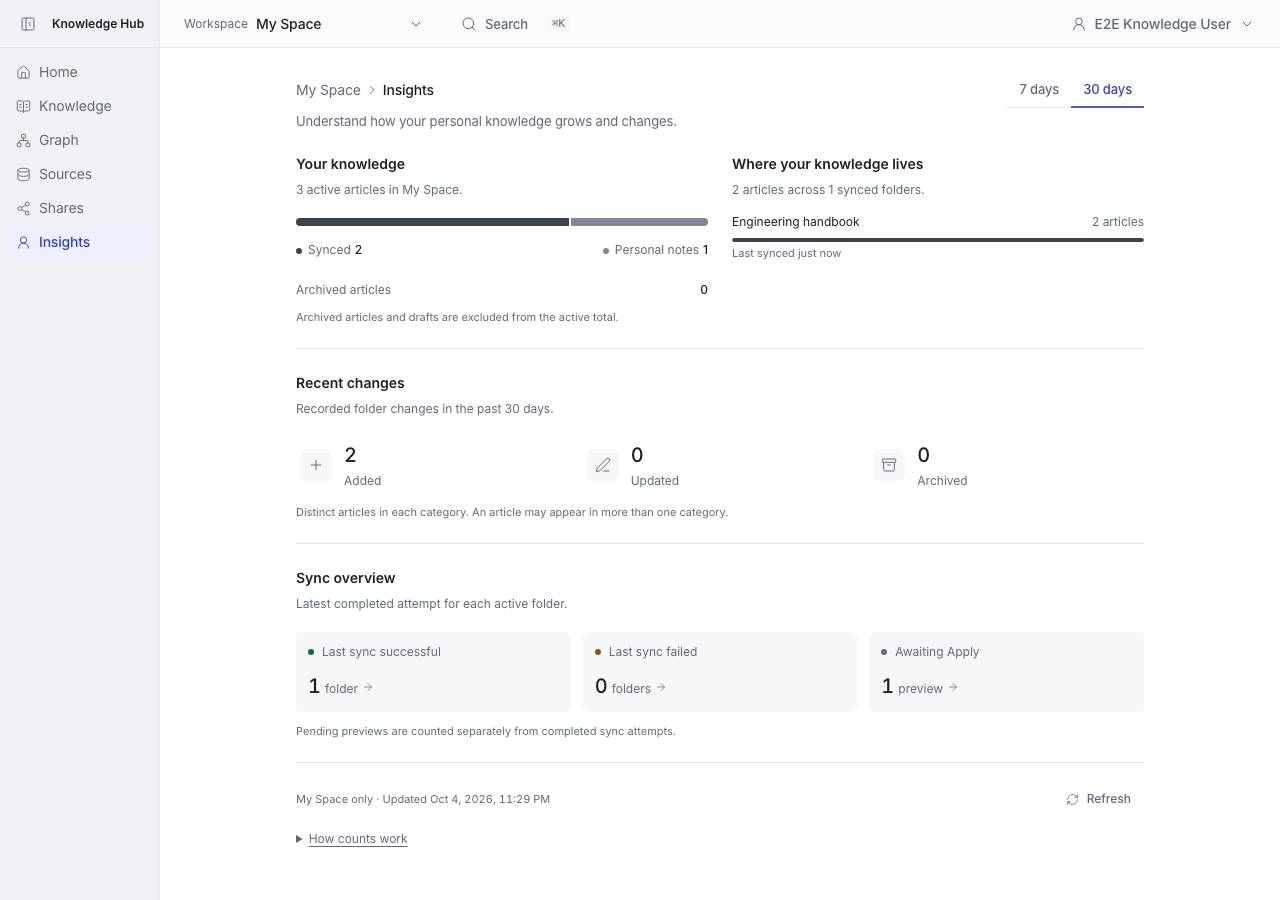
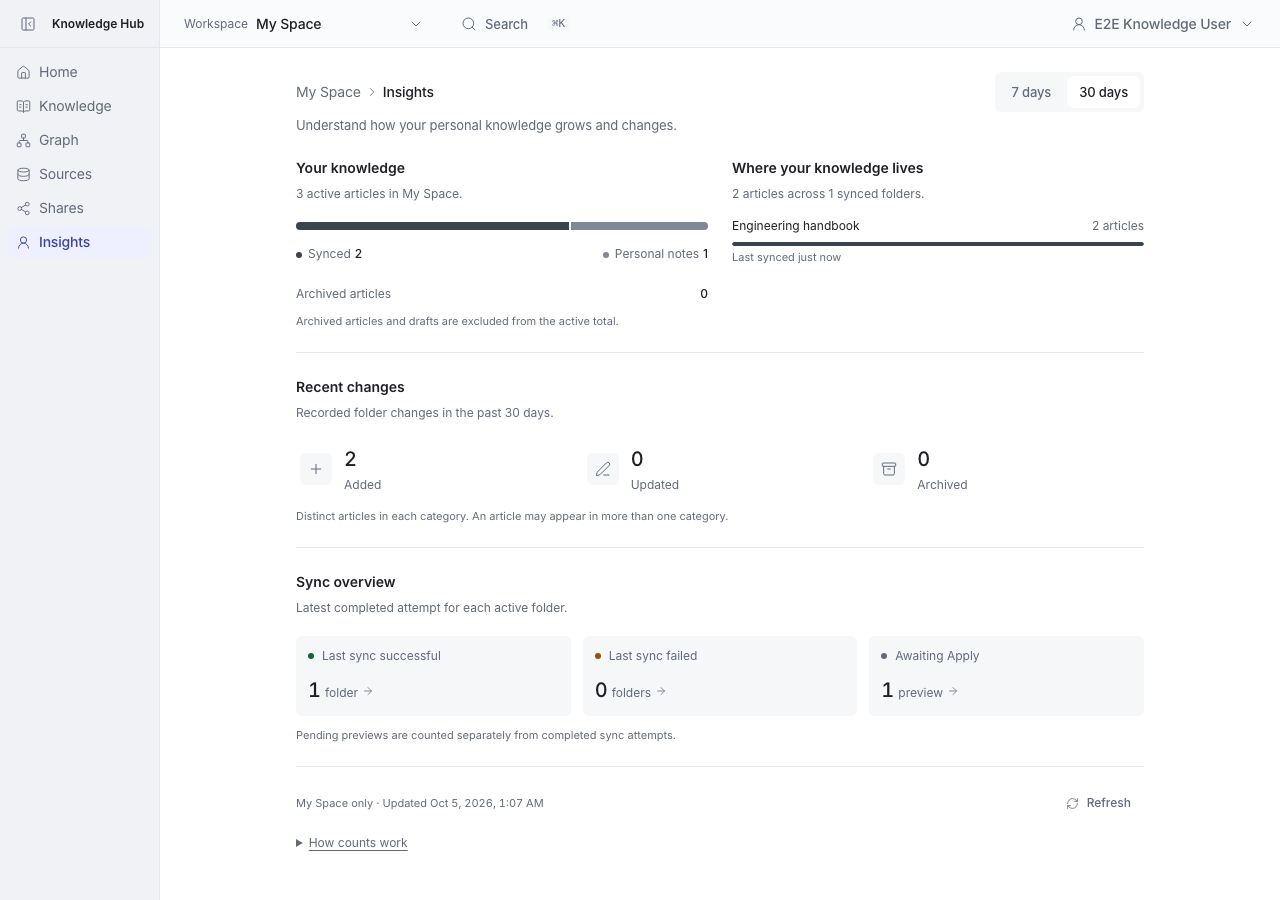
fix: use segmented period control in Insights

diff --git a/src/components/personal/personal-profile-view.tsx b/src/components/personal/personal-profile-view.tsx
@@ -4,13 +4,12 @@ import type {PersonalProfile} from "@/modules/personal/domain/personal-profile";
 import {Timestamp} from "@/components/ui/timestamp";
 import {ProfileRefresh} from "./profile-refresh";
 import {PageHeader} from "@/components/shell/page-header";
-import {tabClasses} from "@/components/ui/tab";
 import styles from "./profile.module.css";
 export function PersonalProfileView({profile:p}:{profile:PersonalProfile}){
  const base=`/w/${p.workspaceId}`,profile=`${base}/profile`,articles=(filter:string)=>`${profile}/articles?filter=${filter}&days=${p.days}`;
  const otherCount=p.counts.folders-p.sources.length,otherArticles=p.counts.synced-p.sources.reduce((sum,s)=>sum+s.articles,0),max=Math.max(1,...p.sources.map(s=>s.articles),otherArticles);
  return <main className={`kh-page py-6 ${styles.profile}`}>
-  <PageHeader location="My Space" locationHref={`${base}/home`} title="Insights" description="Understand how your personal knowledge grows and changes." actions={<nav className="flex items-center border-b border-kh-border" aria-label="Statistics period">{[7,30].map(days=><Link key={days} href={`${profile}?days=${days}`} scroll={false} aria-current={p.days===days?"page":undefined} className={tabClasses(p.days===days)}>{days} days</Link>)}</nav>}/>
+  <PageHeader location="My Space" locationHref={`${base}/home`} title="Insights" description="Understand how your personal knowledge grows and changes." actions={<nav className="flex items-center gap-1 rounded-md bg-kh-bg-subtle p-1" aria-label="Statistics period">{[7,30].map(days=><Link key={days} href={`${profile}?days=${days}`} scroll={false} aria-current={p.days===days?"page":undefined} className={`kh-focus-ring inline-flex h-8 items-center rounded-md px-3 text-body-sm font-medium ${p.days===days ? "bg-kh-bg text-kh-text" : "text-kh-text-muted hover:text-kh-text"}`}>{days} days</Link>)}</nav>}/>
 
   {p.counts.articles===0?<p className={styles.empty}>Build your personal knowledge space.<br/><Link className={`${styles.import} kh-focus-ring`} href={`${base}/sources/import`}>Import your first folder</Link></p>:null}
   <div className={styles.pair}><section aria-labelledby="knowledge-composition"><h2 className={styles.sectiontitle} id="knowledge-composition">Your knowledge</h2><p className={styles.caption}>{p.counts.articles.toLocaleString("en-US")} active articles in My Space.</p><div className={styles.composition} role="img" aria-label={`${p.counts.synced} synced articles and ${p.counts.notes} personal notes`}><div className={styles.synced} style={{width:`${p.counts.articles?p.counts.synced/p.counts.articles*100:0}%`}}/><div className={styles.notes} style={{width:`${p.counts.articles?p.counts.notes/p.counts.articles*100:0}%`}}/></div><div className={styles.legend}><Link className="kh-focus-ring rounded" href={articles("synced")}><i className={styles.dot}/>Synced<strong>{p.counts.synced}</strong></Link><Link className="kh-focus-ring rounded" href={articles("notes")}><i className={`${styles.dot} ${styles.dotSoft}`}/>Personal notes<strong>{p.counts.notes}</strong></Link></div><Link className={`${styles.archive} kh-focus-ring rounded`} href={articles("archived")}><span>Archived articles</span><strong>{p.counts.archived}</strong></Link><p className={styles.small}>Archived articles and drafts are excluded from the active total.</p></section>

diff --git a/tests/e2e/personal-profile.spec.ts b/tests/e2e/personal-profile.spec.ts
@@ -38,7 +38,7 @@ test("personal profile counts, detail links, themes and mobile layout",async({pa
  await page.screenshot({path:path.join(output,"desktop-light.png"),fullPage:true,animations:"disabled"});
  await page.getByRole("button",{name:/^Account:/}).click();await page.getByRole("menuitemradio",{name:"Dark",exact:true}).click();await page.keyboard.press("Escape");await expect(page.locator("html")).toHaveAttribute("data-theme","dark");await page.screenshot({path:path.join(output,"desktop-dark.png"),fullPage:true,animations:"disabled"});
  await page.getByRole("button",{name:/^Account:/}).click();await page.getByRole("menuitemradio",{name:"Light",exact:true}).click();await page.keyboard.press("Escape");
- await page.setViewportSize({width:390,height:844});await expect(page.getByRole("heading",{name:"Insights",exact:true})).toBeVisible();expect(await page.evaluate(()=>document.documentElement.scrollWidth<=innerWidth)).toBe(true);
+ await page.setViewportSize({width:390,height:844});await expect(page.getByRole("heading",{name:"Insights",exact:true})).toBeVisible();await expect.poll(()=>page.evaluate(()=>document.documentElement.scrollWidth<=innerWidth)).toBe(true);
  await page.screenshot({path:path.join(output,"mobile-top.png"),animations:"disabled"});await page.getByRole("heading",{name:"Sync overview",exact:true}).scrollIntoViewIfNeeded();await page.screenshot({path:path.join(output,"mobile-bottom.png"),animations:"disabled"});
  expect(errors).toEqual([]);
 });

diff --git a/docs/ui-comparisons/insights/README.md b/docs/ui-comparisons/insights/README.md
@@ -1,6 +1,6 @@
 # Insights／Home 設計一致性
 
-Insights 使用共用 PageHeader、tabClasses 與 kh-page；字級、間距和圓角回到既有設計尺度，移除普通控制項陰影及未使用樣式。Home 搜尋框改由 Input primitive 提供邊框、尺寸與 focus 樣式。
+Insights 使用共用 PageHeader 與 kh-page，期間使用無陰影的分段切換；字級、間距和圓角回到既有設計尺度，移除普通控制項陰影及未使用樣式。Home 搜尋框改由 Input primitive 提供邊框、尺寸與 focus 樣式。
 
 ## 驗證
 
